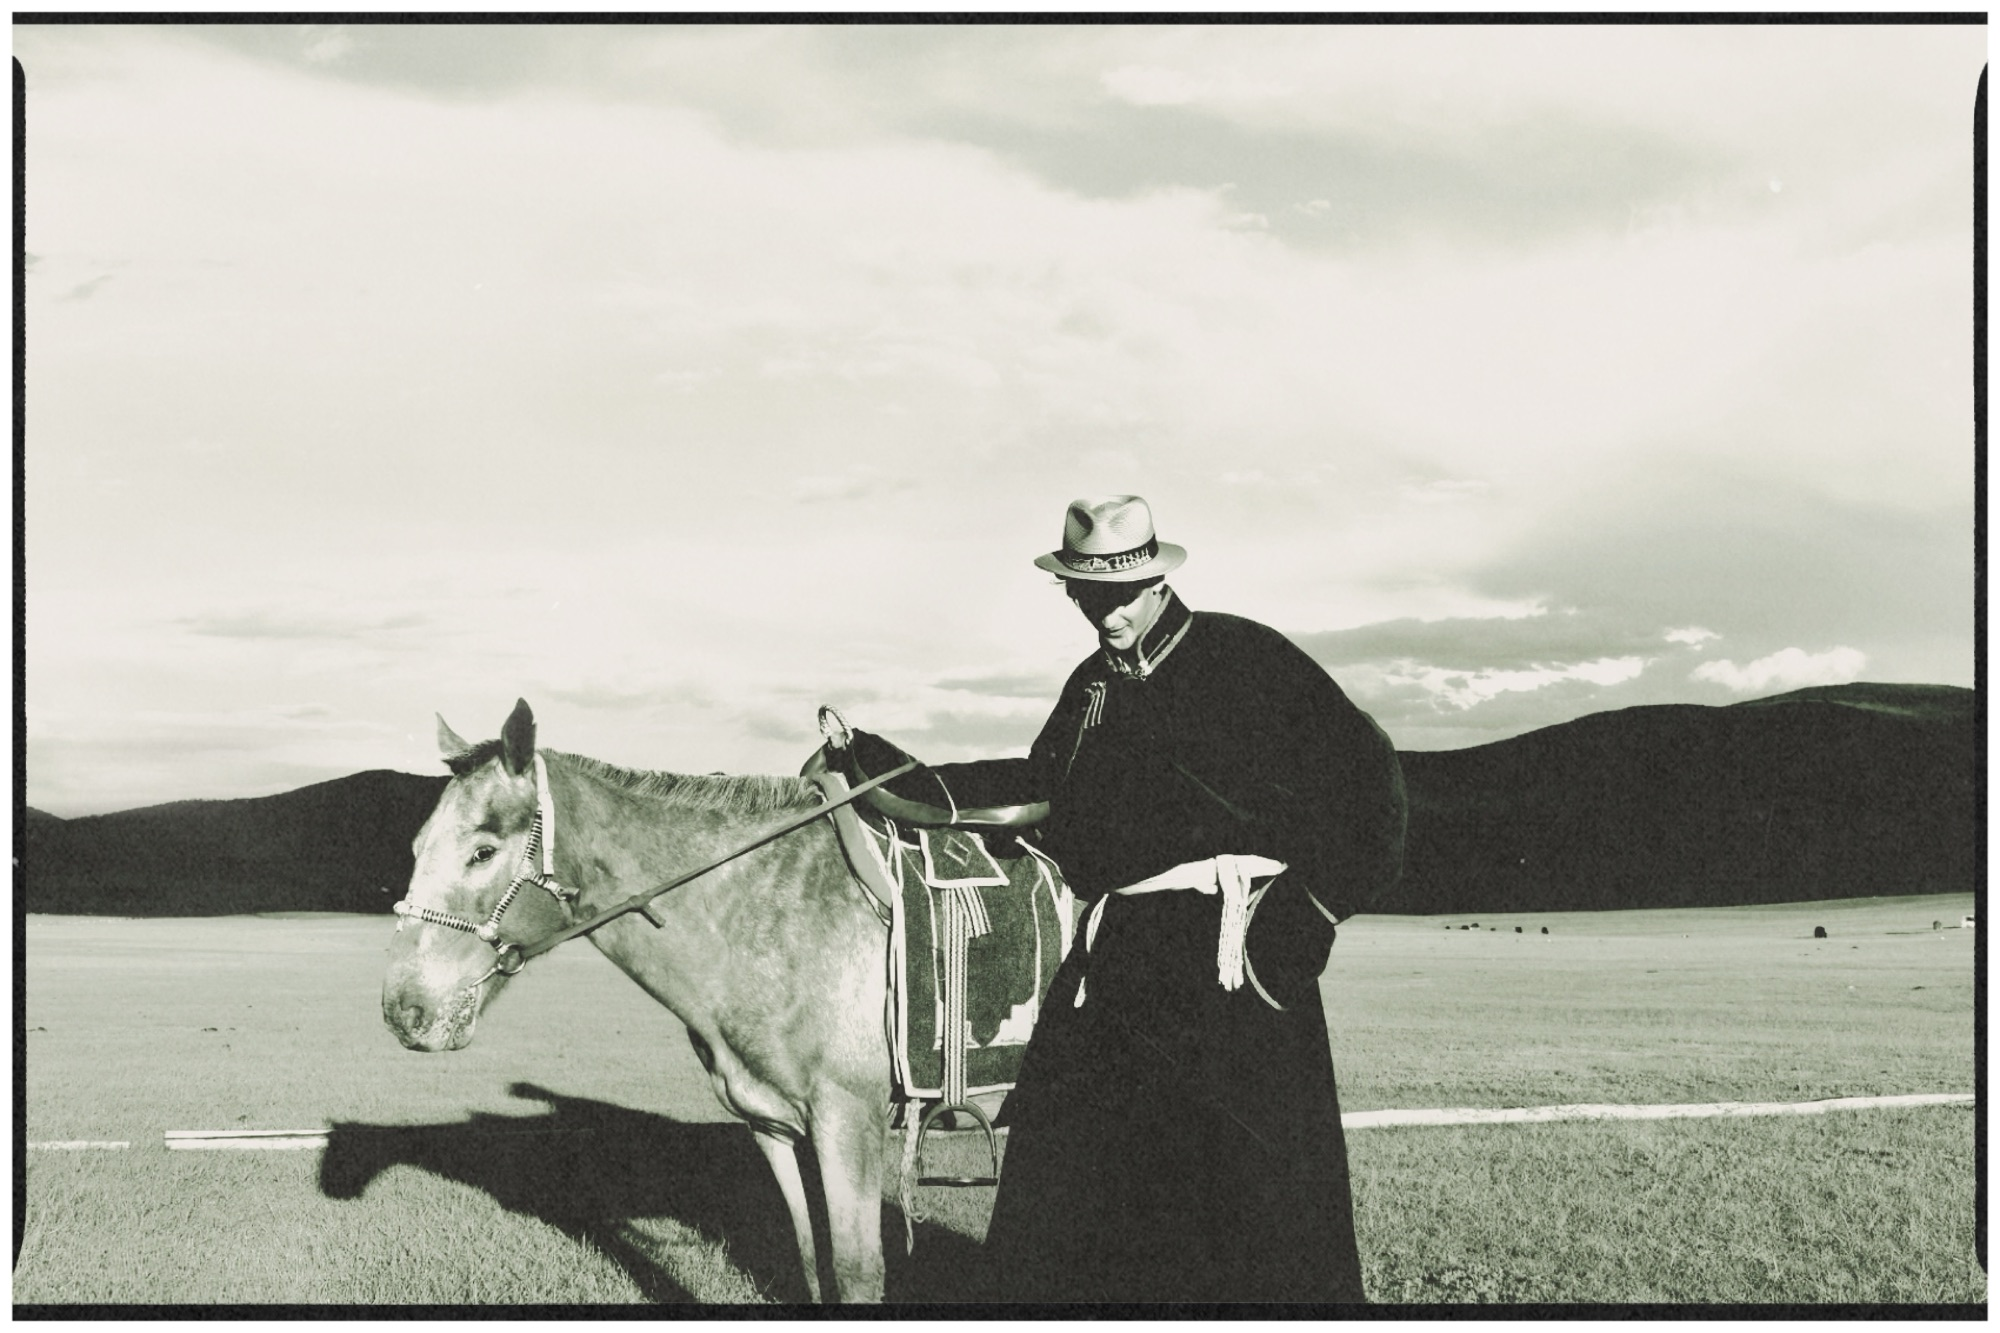
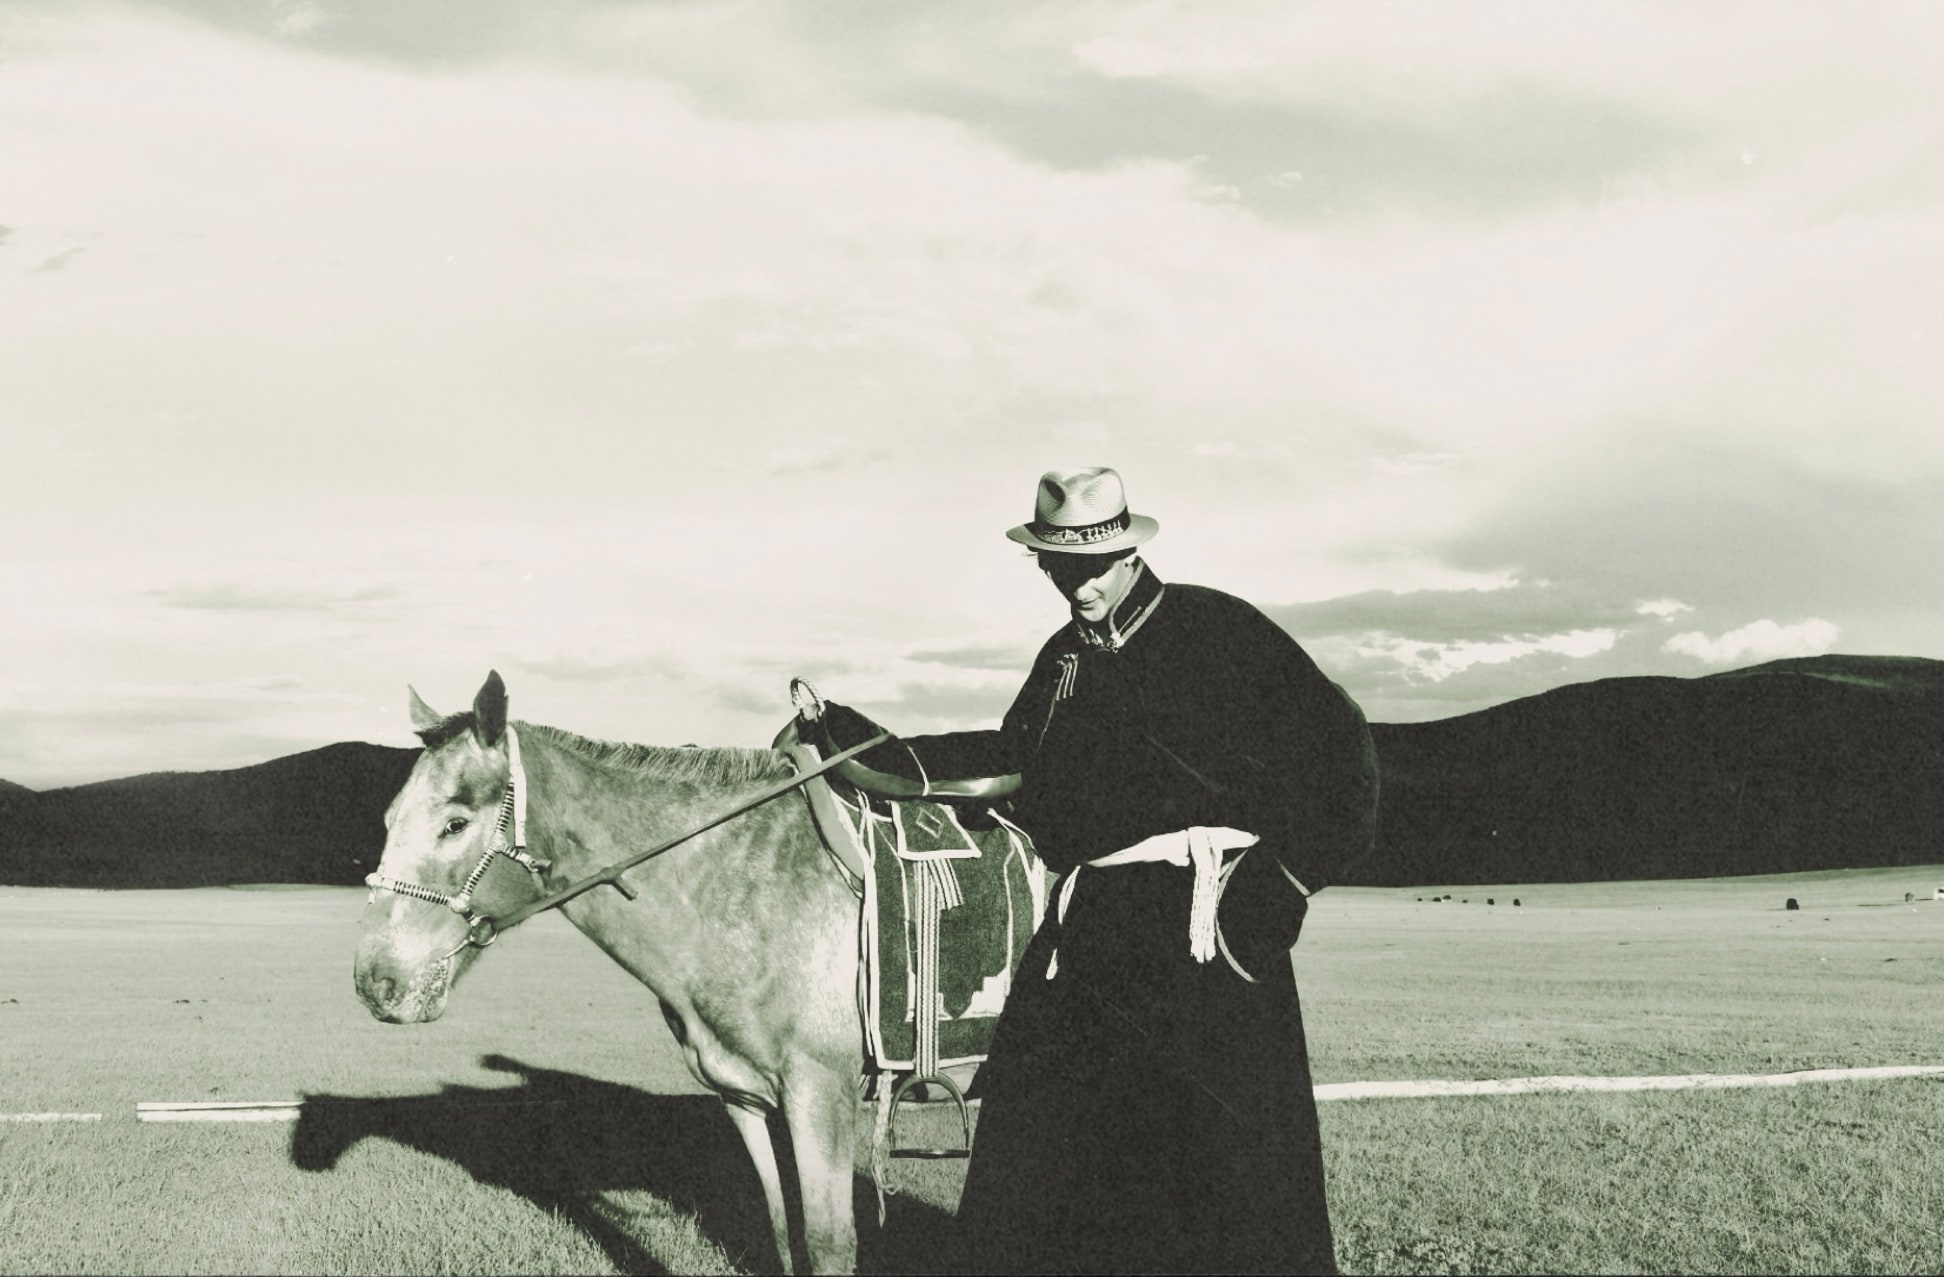
Crop the white film borders off the two scanned gallery photos
Claude-Session: https://claude.ai/code/session_01UDS4fH6kz4h4Doo8YS75mE

diff --git a/app/gallery/gallery-data.ts b/app/gallery/gallery-data.ts
@@ -52,8 +52,8 @@ export const GALLERY_IMAGES: GalleryImage[] = [
   { src: '/images/gallery-extra/guest-and-host-women-in-deels.jpg', alt: 'A guest and her host in traditional deels below the green hills', width: 2000, height: 1333, orientation: 'landscape' },
   { src: '/images/gallery-extra/guests-on-horseback-in-deels.jpg', alt: 'Two guests in borrowed deels on horseback in the evening light', width: 2000, height: 1333, orientation: 'landscape' },
   { src: '/images/gallery-extra/herder-with-motorbike.jpg', alt: 'Herder resting on his motorbike on the steppe at dusk', width: 2000, height: 1333, orientation: 'landscape' },
-  { src: '/images/gallery-extra/horseman-with-saddled-horse-film.jpg', alt: 'Horseman in a deel and straw hat beside his saddled horse, shot on film', width: 2000, height: 1333, orientation: 'landscape' },
-  { src: '/images/gallery-extra/rider-silhouette-at-dusk-film.jpg', alt: 'Rider silhouetted on horseback against a pale dusk sky', width: 2000, height: 1333, orientation: 'landscape' },
+  { src: '/images/gallery-extra/horseman-with-saddled-horse-film.jpg', alt: 'Horseman in a deel and straw hat beside his saddled horse, shot on film', width: 1944, height: 1277, orientation: 'landscape' },
+  { src: '/images/gallery-extra/rider-silhouette-at-dusk-film.jpg', alt: 'Rider silhouetted on horseback against a pale dusk sky', width: 1944, height: 1277, orientation: 'landscape' },
   { src: '/images/gallery-extra/rider-in-motion-monochrome.jpg', alt: 'Rider guiding a horse, caught mid-motion in black and white', width: 1334, height: 2000, orientation: 'portrait' },
   { src: '/images/gallery-extra/motorbike-on-the-ridge-monochrome.jpg', alt: 'Rider pausing on a motorbike to look out across the ridgelines', width: 1333, height: 2000, orientation: 'portrait' },
 ]
